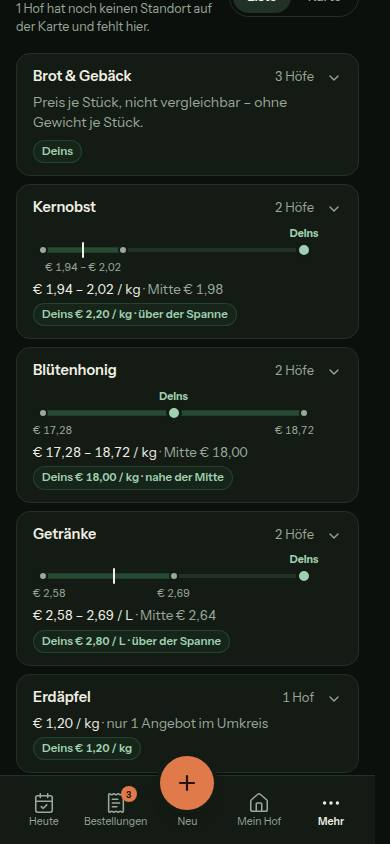
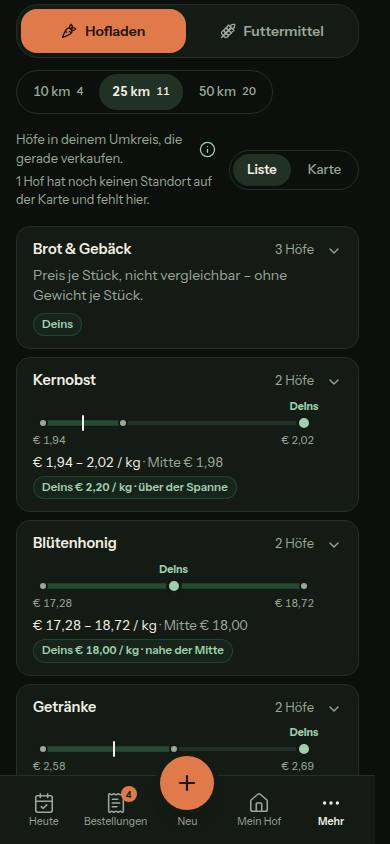
fix: Nr. 124 – Beschriftung des Streifens wieder wie im Board v3 §2
- Die Nachrunde 36772b3 setzte Kleinst- und Höchstwert unter die Enden der
  Spanne; das Board zeigt sie an den Enden der Spur, auch mit „Deins“
  außerhalb, und die Freigabe verlangt „nach Board v3 §2, in allen Lagen“.
  Zurück auf den Stand des Boards (Komponente, DESIGN_SYSTEM, Listenbilder),
  ein Test hält die Enden wie im Board fest
- Bericht: Vorschlag an die Projektleitung statt Umsetzung; Leitplanke 2
  als Quelltext-Prüfung benannt

Claude-Session: https://claude.ai/code/session_016mcnK6M2any3pAayV5rccV

diff --git a/src/components/region/preis-streifen.tsx b/src/components/region/preis-streifen.tsx
@@ -19,10 +19,6 @@ import { cn } from '@/lib/utils'
  *
  * Gezeichnet wird über die Spanne der Höfe hinaus, wenn „Deins" außerhalb
  * liegt — die Skala reicht dann bis zu deinem Wert (Board: „über der Spanne").
- * Kleinst- und Höchstwert stehen auch dann unter den Enden der SPANNE, nicht
- * unter den Enden der Spur: sonst läse man unter „Deins" den Höchst- bzw.
- * Kleinstwert der Höfe als deinen Preis. Liegen die Enden zu eng, steht ein
- * gemeinsames „von – bis" unter der Spanne.
  */
 
 /** Innenrand der Spur: So weit stehen die äußeren Punkte von der Kante. */
@@ -33,25 +29,12 @@ function links(anteil: number): CSSProperties {
   return { left: `calc(${RAND_PX}px + ${anteil} * (100% - ${2 * RAND_PX}px))` }
 }
 
-/** Unter diesem Abstand (Anteil der Spur) passen zwei Beschriftungen nicht nebeneinander. */
-const ENDEN_MIN_ABSTAND = 0.35
-
-/** Eine Beschriftung unter ihrer Stelle: nahe am Rand bündig, sonst mittig — so ragt sie nicht aus dem Bild. */
-function unterDerStelle(anteil: number): CSSProperties {
-  const verschiebung = anteil < 0.15 ? '0%' : anteil > 0.85 ? '-100%' : '-50%'
-  return { ...links(anteil), transform: `translateX(${verschiebung})` }
-}
-
-const ENDE_KLASSE = 'absolute top-[33px] text-[11px] leading-[14px] whitespace-nowrap text-muted-foreground tabular-nums'
-
 export function PreisStreifen({ streifen, className }: { streifen: PreisStreifenDaten; className?: string }): React.JSX.Element {
   const { werte, kleinst, hoechst, mitte, deins } = streifen
   const von = deins === null ? kleinst : Math.min(kleinst, deins)
   const bis = deins === null ? hoechst : Math.max(hoechst, deins)
   // Ein Streifen gibt es nur mit verschiedenen Werten (src/lib/umfeld.ts) — bis > von.
   const anteil = (wert: number) => (wert - von) / (bis - von)
-  const kleinstAnteil = anteil(kleinst)
-  const hoechstAnteil = anteil(hoechst)
 
   return (
     <span role="img" aria-label={streifen.satz} className={cn('relative block h-12 shrink-0', className)}>
@@ -91,21 +74,8 @@ export function PreisStreifen({ streifen, className }: { streifen: PreisStreifen
           </span>
         </>
       )}
-      {hoechstAnteil - kleinstAnteil < ENDEN_MIN_ABSTAND ? (
-        <span data-ende="spanne" className={ENDE_KLASSE} style={unterDerStelle((kleinstAnteil + hoechstAnteil) / 2)}>
-          {streifen.kleinstText} – {streifen.hoechstText}
-        </span>
-      ) : (
-        <>
-          {/* Liegt „Deins" innerhalb, sind die Enden der Spanne die Enden der Spur. */}
-          <span data-ende="kleinst" className={cn(ENDE_KLASSE, kleinstAnteil === 0 && 'left-0')} style={kleinstAnteil === 0 ? undefined : unterDerStelle(kleinstAnteil)}>
-            {streifen.kleinstText}
-          </span>
-          <span data-ende="hoechst" className={cn(ENDE_KLASSE, hoechstAnteil === 1 && 'right-0')} style={hoechstAnteil === 1 ? undefined : unterDerStelle(hoechstAnteil)}>
-            {streifen.hoechstText}
-          </span>
-        </>
-      )}
+      <span className="absolute top-[33px] left-0 text-[11px] leading-[14px] text-muted-foreground tabular-nums">{streifen.kleinstText}</span>
+      <span className="absolute top-[33px] right-0 text-[11px] leading-[14px] text-muted-foreground tabular-nums">{streifen.hoechstText}</span>
     </span>
   )
 }

diff --git a/tests/preis-streifen.test.ts b/tests/preis-streifen.test.ts
@@ -285,41 +285,11 @@ describe('PreisStreifen — ein Bild mit Satz, ohne Namen und ohne Antippen', ()
     expect(html.split(daten.satz)).toHaveLength(2)
   })
 
-  /** Das Element mit `data-ende="…"` als Text samt Attributen. */
-  const ende = (html: string, art: string) => html.match(new RegExp(`<span data-ende="${art}"[^>]*>[^<]*`))?.[0] ?? ''
-
-  it('„Deins" innerhalb: Kleinst- und Höchstwert an den Enden der Spur', () => {
-    const html = renderToStaticMarkup(createElement(PreisStreifen, { streifen: daten }))
-    expect(ende(html, 'kleinst')).toContain('left-0')
-    expect(ende(html, 'kleinst')).toContain('€ 1,47')
-    expect(ende(html, 'hoechst')).toContain('right-0')
-    expect(ende(html, 'hoechst')).toContain('€ 1,66')
-  })
-
-  it('„Deins" über der Spanne: der Höchstwert steht unter dem Ende der Spanne, nicht unter „Deins"', () => {
-    // Skala 147–175: das Ende der Spanne (166) liegt bei 19/28 der Spur.
+  it('„Deins" über der Spanne: Kleinst- und Höchstwert an den Enden der Spur, wie im Board v3 §2', () => {
+    // Das Board zeigt die Lage „über der Spanne" mit dem Höchstwert rechts außen (right: 0) – unter „Deins".
     const html = renderToStaticMarkup(createElement(PreisStreifen, { streifen: { ...daten, deins: 175 } }))
-    const hoechst = ende(html, 'hoechst')
-    expect(hoechst).not.toContain('right-0')
-    expect(hoechst).toContain(`${19 / 28} *`)
-    expect(hoechst).toContain('translateX(-50%)')
-    expect(ende(html, 'kleinst')).toContain('left-0')
-  })
-
-  it('„Deins" unter der Spanne: der Kleinstwert steht unter dem Ende der Spanne', () => {
-    // Skala 120–166: das Ende der Spanne (147) liegt bei 27/46 der Spur.
-    const html = renderToStaticMarkup(createElement(PreisStreifen, { streifen: { ...daten, deins: 120 } }))
-    const kleinst = ende(html, 'kleinst')
-    expect(kleinst).not.toContain('left-0')
-    expect(kleinst).toContain(`${27 / 46} *`)
-    expect(ende(html, 'hoechst')).toContain('right-0')
-  })
-
-  it('liegen die Enden der Spanne eng (Deins weit draußen), steht ein gemeinsames „von – bis" unter der Spanne', () => {
-    const html = renderToStaticMarkup(createElement(PreisStreifen, { streifen: { ...daten, deins: 220 } }))
-    expect(ende(html, 'spanne')).toContain('€ 1,47 – € 1,66')
-    expect(html).not.toContain('data-ende="kleinst"')
-    expect(html).not.toContain('data-ende="hoechst"')
+    expect(html).toMatch(/left-0[^"]*"[^>]*>€ 1,47</)
+    expect(html).toMatch(/right-0[^"]*"[^>]*>€ 1,66</)
   })
 
   it('ohne „Deins" kein grüner Punkt und kein Wort „Deins"', () => {

diff --git a/docs/ai/DESIGN_SYSTEM.md b/docs/ai/DESIGN_SYSTEM.md
@@ -564,7 +564,7 @@ Umgesetzt in `src/components/shells/` (KundeShell, KundeFokusShell, HofShell, Ad
 - **In der HofShell** (Mockups web-h5-region-preise, web-h5-region-futter-kaufen; Rahmen `REGION_RAHMEN`, höchstens 896 px). Kopf `RegionKopf`: h1 „Region", „Rund um deinen Hof – Preise vergleichen und Futter kaufen", Reiter als Unterstrich-Links (gewählt Textfarbe mit Strich, `aria-current`). Umkreis als Wanne `KmWahl` (10 · 25 · 50 km, Links, sichtbar 36 px mit 44 px Trefferfläche; mit `zahlen` steht hinter jeder Stufe ihre Zahl, „25 km 8“, die Wanne heißt dann nach `zahlLabel`, etwa „Umkreis, Zahl der Höfe je Stufe“; gezählt in `zaehleJeStufe`) in beiden Reitern.
 - **Eine Quelle mit /hoefe (Register N23, seit Nr. 122):** Region importiert die Bausteine von /hoefe, keine Kopien in src/components/region — `HofKopf` (Name in Serif, Entfernung, PLZ und Ort; mit `bild` 40 px rund bzw. 48 px), `HofKarte`, `HoefeProduktzeilen`, `Abholzeile` und die kurze Hofkarte am Pin `HofKurzkarte` mit `art: 'region'` (Bereich „Hof <Name>“, „Zum Hof“ im Tab-Weg, „Schließen“ mit 44 px und Escape; beim Öffnen Fokus auf die Karte, beim Schließen zurück auf den Pin; den Inhalt unter dem Kopf gibt der Reiter). „So rechnen wir“ ist `ErklaerKnopf`: (i)-Knopf mit dem Titel als `aria-label` (44 px), Dialog aus `ui/dialog` mit Überschrift, Punkten mit Haken und „Verstanden“ (am Handy unten). Der Hinweis auf Höfe ohne Standort kommt aus `ohneStandortHinweis` (lang über Liste und Karte, `kurz` auf der Handy-Karte).
 - **Preise vergleichen (seit Nr. 124, N23; Board v3 §2 und §4):** Bereich-Umschalter (beim Wechsel der Ladepunkt an der gewählten Hälfte, Inhalt `aria-busy`), `KmWahl` mit Zahl je Stufe (`zahlenJeStufe`, `zahlLabel` „Umkreis, Zahl der Höfe je Stufe“), darunter EIN Satz „Höfe in deinem Umkreis, die gerade verkaufen.“ mit `ErklaerKnopf` „So rechnen wir“ (fünf Punkte aus `UMFELD_TEXT`, Knopf „Verstanden“) und den Hinweisen, rechts `Segment` „Liste | Karte" (Zustand der Seite, `replaceState`). Zeilen als Karten (Radius 14, geöffnet grüner Rand): am Computer Sorte und Anzahl (150 px), Streifen (270 px), daneben Spanne · Mitte und „Deins“; am Handy zweizeilig — Sorte und Anzahl, darunter der Streifen über die volle Breite, dann der Text. „Deins" als grüne Marke (`bg-accent/12`, `border-accent/45`, `text-status-fertig`) mit der Lage in Worten („Deins € 1,50 / L · unter der Mitte“). Ein Hof: kein Streifen, „€ 2,90 / kg · nur 1 Angebot im Umkreis“; gleiche Werte: die Zeile ohne Streifen und ohne Mitte; im Futter je Gebindeklasse ein Streifen („Kleingebinde bis 25 kg“, „Großgebinde über 25 kg“). Nicht vergleichbar: der Grund aus `NICHT_VERGLEICHBAR_TEXT`. Aufgeklappt je Hof `HofKopf` (Bild 40, der ganze Kopf ist der Link zur Hofseite) und die Produktzeile (`HoefeProduktzeilen`, Kante 40) des Produkts, das zählt; nach Entfernung, ab dem vierten „n weitere Höfe“, darunter „Kaufen geht über die Hofseite.“ Karte: Pins mit Namen (Regel von /hoefe), „Du“ und Umkreis; Antippen bzw. Enter öffnet `HofKurzkarte` „region“ (am Handy volle Breite unten, am Computer 320 px links unten) mit den ersten zwei kaufbaren Produkten in der Reihenfolge der Hofseite und „Zum Hof“, keine Abholzeile. Leer: `EmptyState` mit „Umkreis auf n km".
-- **`PreisStreifen` (`src/components/region/preis-streifen.tsx`, Register N23):** die Spanne als Bild, 270 × 48 px am Computer, volle Breite am Handy (der Aufrufer gibt die Breite). Spur 4 px (`bg-border`) mit 10 px Innenrand, darauf die Spanne der Höfe 6 px (`bg-accent/45`, Schmuck); je Hof ein Punkt 10 px (`bg-muted-foreground`, 2 px Rand in `card`), die Mitte als Strich 2 × 16 px (`bg-foreground`), „Deins“ als Punkt 16 px (`bg-status-fertig`, 3 px Rand in `card`) mit dem Wort „Deins“ darüber (10,5 px, fett); Kleinst- und Höchstwert unter den Enden der Spanne (11 px, `text-muted-foreground`). Liegt „Deins“ außerhalb, reicht die Skala bis dorthin; die beiden Werte stehen dann weiter unter den Enden der Spanne, nicht unter „Deins“, und liegen sie zu eng, steht ein gemeinsames „von – bis“ darunter. Punkte und Strich ≥ 3:1 zur Karte in beiden Themes. `role="img"` mit dem ganzen Satz als `aria-label` („3 Höfe von € 1,47 bis € 1,66 / L, Mitte € 1,58; deiner € 1,50, unter der Mitte“); die Punkte haben keinen Namen, keinen Titel, keinen Tooltip und sind nicht antippbar. Gerechnet wird in `src/lib/umfeld.ts` mit ganzen Zahlen der kleinsten gezeigten Einheit (Cent, bei € / t und € / dt ganze Euro); der Streifen erst ab zwei Höfen mit verschiedenen Werten, „Deins“ nur bei genau einem eigenen Wert. Leitplanken als Prüfung: `tests/umfeld-leitplanken.test.ts`.
+- **`PreisStreifen` (`src/components/region/preis-streifen.tsx`, Register N23):** die Spanne als Bild, 270 × 48 px am Computer, volle Breite am Handy (der Aufrufer gibt die Breite). Spur 4 px (`bg-border`) mit 10 px Innenrand, darauf die Spanne der Höfe 6 px (`bg-accent/45`, Schmuck); je Hof ein Punkt 10 px (`bg-muted-foreground`, 2 px Rand in `card`), die Mitte als Strich 2 × 16 px (`bg-foreground`), „Deins“ als Punkt 16 px (`bg-status-fertig`, 3 px Rand in `card`) mit dem Wort „Deins“ darüber (10,5 px, fett); Kleinst- und Höchstwert unter den Enden (11 px, `text-muted-foreground`). Liegt „Deins“ außerhalb, reicht die Skala bis dorthin. Punkte und Strich ≥ 3:1 zur Karte in beiden Themes. `role="img"` mit dem ganzen Satz als `aria-label` („3 Höfe von € 1,47 bis € 1,66 / L, Mitte € 1,58; deiner € 1,50, unter der Mitte“); die Punkte haben keinen Namen, keinen Titel, keinen Tooltip und sind nicht antippbar. Gerechnet wird in `src/lib/umfeld.ts` mit ganzen Zahlen der kleinsten gezeigten Einheit (Cent, bei € / t und € / dt ganze Euro); der Streifen erst ab zwei Höfen mit verschiedenen Werten, „Deins“ nur bei genau einem eigenen Wert. Leitplanken als Prüfung: `tests/umfeld-leitplanken.test.ts`.
 - **Futter kaufen:** Umkreis, Futterart (`FilterChip`-Links: Alle und die Kategorien des Bereichs, die es gibt) und Menge (Alle Mengen · Kleinmengen · Ballen & mehr, nur was es gibt); Satz „Hier siehst du nur registrierte Futtermittelbetriebe – du kaufst für deine Tiere." Je Familie eine Karte: Name (zwei Zeilen, `title`), „Hof · Entfernung · Abholung …", grünes Schild mit Schild-Symbol im Wortlaut E9, rechts „Grundpreis" mit Wert, darunter die Größen als Link-Kacheln (Name, Preis, 44 px) und grün „Bestellen" (Link zur Produktseite). Größen und „Bestellen" tragen `?kaeufer=betrieb` (seit Nr. 29): In der Kasse ist „Ich bestelle als landwirtschaftlicher Betrieb" schon angehakt, sobald der Abschnitt „Betrieb" erscheint; die Kundin kann den Haken abwählen. Sonst ändert sich an der Kasse nichts — kein Hinweis, kein eigener Zustand. Am Ende gestrichelt „Du verkaufst selbst Futter? …" mit Link „Futtermittel anlegen". Leer: `EmptyState` mit „Alles Futter zeigen" bzw. „Umkreis auf n km". Keine Karte (Abweichung zum Mockup).
 - **Zustände beider Reiter:** ohne eigenen Standort (Board v2 §4) `EmptyState` „Wo liegt dein Hof?“ mit beiden Folgen im Satz und grün „Standort auf der Karte setzen“ (direkt zur Karte im Hofprofil, `STANDORT_SETZEN_HREF`), darunter „So steht dein Hof gerade in der Liste der Kundschaft“ mit der eigenen `HofKarte` samt „Nicht auf der Karte“ — genau der Eintrag von /hoefe; steht der Hof nicht in der Liste (Testhof, nicht sichtbar), ein Satz statt der Karte. Laden: keine `loading.tsx` — die alte Ansicht bleibt stehen, der gewählte Reiter bzw. die gewählte Stufe des Umkreises zeigt den Ladepunkt, der Inhalt trägt `aria-busy` (`LadeRahmen`, `LadeInhalt`); `RegionLaden` zeigt nur noch die Umleitung /analytics/umfeld. Fehler orange `Hinweiskarte` mit „Noch einmal versuchen".
 

diff --git a/docs/nachtlauf/berichte/124.md b/docs/nachtlauf/berichte/124.md
@@ -18,7 +18,7 @@ tests/{preis-streifen,region-bausteine,umfeld-karte,umfeld-leitplanken,umfeld-qu
 
 ## Leitplanken als Prüfungen (für die rechtliche Prüfung)
 1. Kein Text empfiehlt oder wertet: Wache über alle String-Literale/JSX-Texte von `umfeld.ts`, `umfeld-*.tsx`, `preis-streifen.tsx` (ohne className, Wortanfang, Umlaut-Grenze); verboten „empfehl/empfiehl“ (außer „empfiehlt keine“), „solltest“, „zu teuer/billig/günstig“, „erhöh“, „senk“, „günstiger als“, „teurer als“, „Rang“. Gegenprobe „Du solltest erhöhen“ rot (`umfeld-leitplanken.test.ts`).
-2. Kein Preis an den Pins: `KartenHof` (die Pins) bekommt nur Kennung, Nummer, Lage und Namen (Test in `umfeld-karte`); `JSON.stringify(baueUmfeldKarte(…))` ohne „€“ (Gegenprobe Zeilen mit „€“). Die Daten der Karte am Pin tragen die Preise der zwei Produkte als Zahl – sie erscheinen erst nach dem Antippen, wie auf der Hofseite.
+2. Kein Preis an den Pins: `KartenHof` (die Pins) bekommt nur Kennung, Nummer, Lage und Namen (Quelltext-Prüfung in `umfeld-karte`); `JSON.stringify(baueUmfeldKarte(…))` ohne „€“ (Gegenprobe Zeilen mit „€“). Die Daten der Karte am Pin tragen die Preise der zwei Produkte als Zahl – sie erscheinen erst nach dem Antippen, wie auf der Hofseite.
 3. Keine Sortierung nach Preis: aufgeklappte Zeile, Zeilen und Karte am Pin mit vertauschten Preisen unverändert; Query behält `PRODUCT_ORDER_BY`.
 4. Testhof, pausierter und eigener Hof fehlen in Zählung, Streifen und Karte: je ein Test (Unit + `integration/umfeld.int.test.ts`; Gegenprobe ohne `isPaused: false` rot).
 5. Keine Namen an Punkten: `PreisStreifen` ohne `title`, `tabindex`, Knopf oder Link (Render-Test); Werte ohne Namen und IDs.
@@ -48,7 +48,7 @@ tests/{preis-streifen,region-bausteine,umfeld-karte,umfeld-leitplanken,umfeld-qu
 - typecheck 0, lint 0 Fehler / 5 Warnungen (Grundstand), test 482 / 9198 grün (vor jedem Commit). Integration unter Sperre: umfeld, testhof, region, auswertung-region – 4 / 23 grün.
 - Axe 0 Verstöße: Liste 390 hell + dunkel, 1440; Karte mit Karte am Pin 390. Kontrast Punkte/Strich/„Deins“ zur Karte: hell 5,4 / 15,1 / 6,0, dunkel 7,1 / 15,1 / 10,1. Tippflächen: (i) 44, Umkreis 36 + 2 × 4, Zeile ≥ 44, Kopf-Link 45, „weitere Höfe“ 44, Schließen 44.
 - ![Liste 390](bilder/124/preise-liste-390-hell.jpg) ![Liste 390 dunkel](bilder/124/preise-liste-390-dunkel.jpg) ![Liste 1440](bilder/124/preise-liste-1440-hell.jpg) ![Futter zwei Klassen](bilder/124/futter-klassen-390-hell.jpg) ![Eier](bilder/124/eier-390-hell.jpg) ![aufgeklappt](bilder/124/aufgeklappt-390-hell.jpg) ![Karte 390](bilder/124/karte-pin-390-hell.jpg) ![Karte 1440](bilder/124/karte-pin-1440-hell.jpg) ![So rechnen wir](bilder/124/so-rechnen-wir-390-hell.jpg)
-- Lücke der Seed-Daten: „Deins unter der Spanne“ kommt nicht vor (Lage im Test). Kacheln ohne Netz grau. Nachrunde des Dirigenten: Kleinst- und Höchstwert stehen unter den Enden der Spanne, nicht der Spur (bei „Deins“ außerhalb; liegen sie eng, ein „von – bis“), Render-Tests mit Gegenprobe, die drei Listenbilder neu (Axe 0). Mengen als Tausendstel bleiben in `umfeld.ts` (Decimal(10,3) exakt, Muster `grundpreisCents`; Geld in ganzen Cent).
+- Lücke der Seed-Daten: „Deins unter der Spanne“ kommt nicht vor (Lage im Test). Kacheln ohne Netz grau. Nachrunde des Dirigenten: Leitplanke 2 genau benannt; ein Test hält die Enden wie im Board fest. Vorschlag an die Projektleitung (nicht umgesetzt, Board v3 §2 ist bindend): Liegt „Deins“ außerhalb der Spanne, steht der Höchst- bzw. Kleinstwert der Höfe unter „Deins“ und lässt sich als eigener Preis lesen – besser unter dem Ende der Spanne. Mengen als Tausendstel bleiben in `umfeld.ts` (Decimal(10,3) exakt, Muster `grundpreisCents`; Geld in ganzen Cent).
 
 ## Mockup-Abweichungen (mit Bild)
 - Eier je Stück fehlt (STOPP) – `eier-390-hell.jpg`; „So rechnen wir“ Punkt 4 ohne „oder Stück“ – `so-rechnen-wir-390-hell.jpg`.
